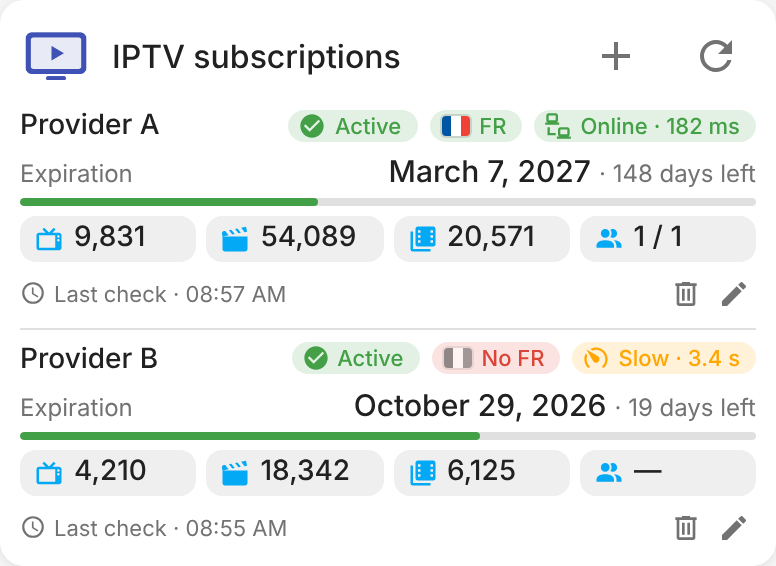
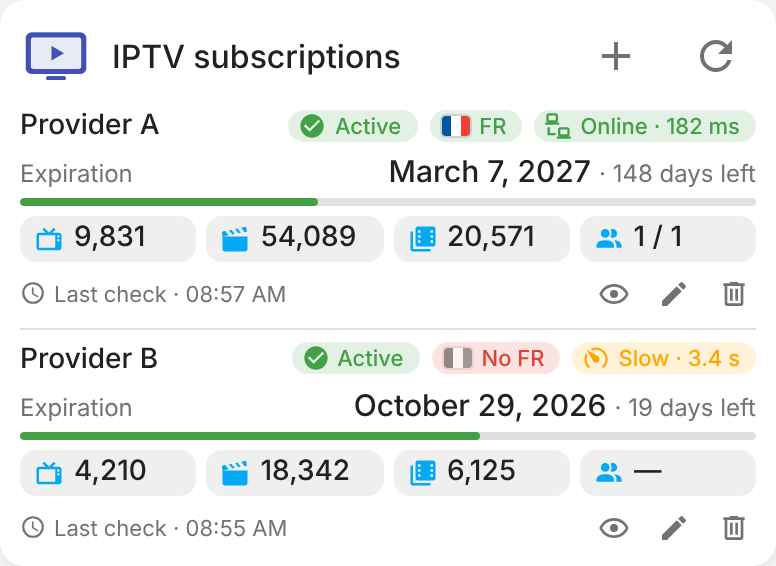
Catalogue-count check and a view-credentials popup (3.13.0) (#23)
Adding or editing an account now also verifies the channel/movie/series
counts look like a real catalogue (empty_catalogue otherwise). New 👁 button
per subscription opens a popup showing the server URL and credentials with a
copy button each, backed by iptv.get_credentials. The view/edit/delete
buttons are spaced further apart.

Claude-Session: https://claude.ai/code/session_01Nef7oocvL8tyqa2wDZRCex

diff --git a/custom_components/iptv/frontend/iptv-card.js b/custom_components/iptv/frontend/iptv-card.js
@@ -8,7 +8,7 @@
  *
  * https://github.com/juju35/ha-iptv
  */
-var IPTV_CARD_VERSION = '3.12.0';
+var IPTV_CARD_VERSION = '3.13.0';
 var IPTV_DOMAIN = 'iptv';
 var IPTV_LOGO_URL = '/' + IPTV_DOMAIN + '/logo.png?v=' + IPTV_CARD_VERSION;
 
@@ -51,6 +51,10 @@ var IptvCardI18n = {
     add_stalker: 'Stalker / Ministra',
     add_create: 'Add',
     err_existing_longer: 'An account valid longer is already on this server',
+    err_empty_catalogue: 'The provider has no usable catalogue',
+    view_btn: 'View credentials',
+    view_title: 'Credentials',
+    copy: 'Copy',
     status_active: 'Active',
     status_expired: 'Expired',
     status_banned: 'Banned',
@@ -118,6 +122,10 @@ var IptvCardI18n = {
     add_stalker: 'Stalker / Ministra',
     add_create: 'Ajouter',
     err_existing_longer: 'Un compte valide plus longtemps existe déjà sur ce serveur',
+    err_empty_catalogue: 'Le fournisseur n\'a pas de catalogue exploitable',
+    view_btn: 'Voir les identifiants',
+    view_title: 'Identifiants',
+    copy: 'Copier',
     status_active: 'Actif',
     status_expired: 'Expiré',
     status_banned: 'Banni',
@@ -451,8 +459,9 @@ class IptvCard extends HTMLElement {
             ? `<div class="checked" data-entity="last_check"><ha-icon icon="mdi:clock-outline"></ha-icon>${esc(this._t('last_check'))} · ${esc(fmtCheck(h.at))}</div>`
             : '<span></span>'}
           <div class="foot-actions">
-            <button class="del" data-sub="${i}" title="${esc(this._t('del_btn'))}"><ha-icon icon="mdi:trash-can-outline"></ha-icon></button>
+            <button class="view" data-sub="${i}" title="${esc(this._t('view_btn'))}"><ha-icon icon="mdi:eye-outline"></ha-icon></button>
             <button class="edit" data-sub="${i}" title="${esc(this._t('edit_btn'))}"><ha-icon icon="mdi:pencil"></ha-icon></button>
+            <button class="del" data-sub="${i}" title="${esc(this._t('del_btn'))}"><ha-icon icon="mdi:trash-can-outline"></ha-icon></button>
           </div>
         </div>`;
 
@@ -533,8 +542,8 @@ class IptvCard extends HTMLElement {
         [data-entity] { cursor:pointer; }
         .stat:hover { filter: brightness(0.95); }
         .foot { display:flex; align-items:center; justify-content:space-between; gap:8px; min-height:20px; }
-        .foot-actions { display:flex; align-items:center; gap:2px; }
-        button.edit, button.del { padding:3px; margin:0; align-self:center; --mdc-icon-size:16px; }
+        .foot-actions { display:flex; align-items:center; gap:8px; }
+        button.edit, button.del, button.view { padding:3px; margin:0; align-self:center; --mdc-icon-size:16px; }
         button.del:hover { color:var(--iptv-crit); background:color-mix(in srgb, var(--iptv-crit) 12%, transparent); }
         .backdrop { position:absolute; inset:0; background:rgba(0,0,0,.45); display:flex; align-items:center; justify-content:center; z-index:9; border-radius:inherit; }
         .modal { background:var(--card-background-color, #1c1c1c); color:var(--primary-text-color); width:min(92%, 340px); border-radius:14px; padding:16px; box-shadow:0 8px 30px rgba(0,0,0,.4); display:flex; flex-direction:column; gap:10px; }
@@ -550,6 +559,11 @@ class IptvCard extends HTMLElement {
         .modal button.primary { background:var(--primary-color, #03a9f4); color:#fff; }
         .modal button.primary[disabled], .modal button.danger[disabled] { opacity:.6; cursor:default; }
         .modal button.danger { background:var(--iptv-crit); color:#fff; }
+        .view-row { display:flex; align-items:center; gap:8px; }
+        .view-k { font-size:11px; color:var(--secondary-text-color); width:96px; flex:none; }
+        .view-v { flex:1; min-width:0; font-size:13px; font-family:monospace; overflow:hidden; text-overflow:ellipsis; white-space:nowrap; user-select:all; }
+        .modal button.copy { padding:4px; --mdc-icon-size:16px; width:auto; height:auto; background:none; color:var(--secondary-text-color); }
+        .modal button.copy.ok { color:var(--iptv-ok); }
       </style>
       <ha-card>
         <div class="header">
@@ -569,6 +583,10 @@ class IptvCard extends HTMLElement {
     this._root.querySelectorAll('button.del').forEach((el) => {
       var sub = subs[Number(el.dataset.sub)];
       if (sub) el.addEventListener('click', () => this._confirmDelete(sub));
+    });
+    this._root.querySelectorAll('button.view').forEach((el) => {
+      var sub = subs[Number(el.dataset.sub)];
+      if (sub) el.addEventListener('click', () => this._openView(sub));
     });
     // Header pills (single subscription) belong to the first subscription
     this._root.querySelectorAll('[data-entity]').forEach((el) => {
@@ -761,6 +779,62 @@ class IptvCard extends HTMLElement {
     btn.removeAttribute('disabled');
     btn.textContent = this._t('add_create');
     errEl.textContent = this._t('err_' + (out.error || 'generic'));
+  }
+
+  // ── View credentials popup ────────────────────────────────────────────────
+  async _openView(sub) {
+    this._closeEditor();
+    var esc = (x) =>
+      String(x == null ? '' : x).replace(/[&<>"]/g, (c) => ({ '&': '&amp;', '<': '&lt;', '>': '&gt;', '"': '&quot;' })[c]);
+    var modal = document.createElement('div');
+    modal.className = 'backdrop';
+    modal.innerHTML = `<div class="modal"><h3>${esc(this._t('view_title'))}</h3><div class="hint">${esc(this._t('edit_saving'))}</div></div>`;
+    modal.addEventListener('click', (e) => { if (e.target === modal) this._closeEditor(); });
+    this.shadowRoot.appendChild(modal);
+    this._modal = modal;
+    var creds = {};
+    try {
+      var res = await this._hass.callService('iptv', 'get_credentials', { device_id: sub.device }, undefined, false, true);
+      creds = (res && res.response) || {};
+    } catch (e) { creds = {}; }
+    if (this._modal !== modal) return;
+    var close = `<div class="modal-actions"><button class="act cancel">${esc(this._t('edit_cancel'))}</button></div>`;
+    if (!creds.ok) {
+      modal.querySelector('.modal').innerHTML = `<h3>${esc(this._t('view_title'))}</h3><div class="err">${esc(this._t('err_' + (creds.error || 'generic')))}</div>${close}`;
+    } else {
+      var rows = creds.provider === 'stalker'
+        ? [['edit_url', creds.url], ['edit_mac', creds.mac]]
+        : [['edit_url', creds.url], ['edit_username', creds.username], ['edit_password', creds.password]];
+      var rowsHtml = rows.map((r) => `
+        <div class="view-row">
+          <div class="view-k">${esc(this._t(r[0]))}</div>
+          <div class="view-v">${esc(r[1])}</div>
+          <button class="copy" data-v="${esc(r[1])}" title="${esc(this._t('copy'))}"><ha-icon icon="mdi:content-copy"></ha-icon></button>
+        </div>`).join('');
+      modal.querySelector('.modal').innerHTML = `<h3>${esc(this._t('view_title'))}</h3>${rowsHtml}${close}`;
+      modal.querySelectorAll('button.copy').forEach((el) => el.addEventListener('click', () => this._copy(el)));
+    }
+    modal.querySelector('.cancel').addEventListener('click', () => this._closeEditor());
+  }
+
+  async _copy(el) {
+    var text = el.dataset.v;
+    try {
+      await navigator.clipboard.writeText(text);
+    } catch (e) {
+      try {
+        var ta = document.createElement('textarea');
+        ta.value = text;
+        this.shadowRoot.appendChild(ta);
+        ta.select();
+        document.execCommand('copy');
+        ta.remove();
+      } catch (e2) { /* ignore */ }
+    }
+    var icon = el.querySelector('ha-icon');
+    icon.setAttribute('icon', 'mdi:check');
+    el.classList.add('ok');
+    setTimeout(() => { icon.setAttribute('icon', 'mdi:content-copy'); el.classList.remove('ok'); }, 1200);
   }
 
   async _submitEditor() {

diff --git a/custom_components/iptv/services.py b/custom_components/iptv/services.py
@@ -25,6 +25,7 @@ from .api import (
     IptvError,
     StalkerClient,
     XtreamClient,
+    counts_ok,
     normalize_mac,
     normalize_url,
     valid_mac,
@@ -41,6 +42,7 @@ from .const import (
 SERVICE_EDIT_ACCOUNT = "edit_account"
 SERVICE_REMOVE_ACCOUNT = "remove_account"
 SERVICE_ADD_ACCOUNT = "add_account"
+SERVICE_GET_CREDENTIALS = "get_credentials"
 
 EDIT_SCHEMA = vol.Schema(
     {
@@ -53,6 +55,7 @@ EDIT_SCHEMA = vol.Schema(
 )
 
 REMOVE_SCHEMA = vol.Schema({vol.Required("device_id"): cv.string})
+CREDENTIALS_SCHEMA = vol.Schema({vol.Required("device_id"): cv.string})
 
 ADD_SCHEMA = vol.Schema(
     {
@@ -100,6 +103,8 @@ async def _validate(hass: HomeAssistant, provider: str, data: dict[str, Any]) ->
     stream = await client.async_test_stream()
     if stream.get("ok") is False:
         return "stream_ko"
+    if not counts_ok(await client.async_get_counts()):
+        return "empty_catalogue"
     return None
 
 
@@ -158,6 +163,21 @@ async def _async_remove_account(call: ServiceCall) -> ServiceResponse:
     return {"ok": True}
 
 
+async def _async_get_credentials(call: ServiceCall) -> ServiceResponse:
+    """Return the full credentials of an account (password included) for viewing."""
+    entry = _entry_for_device(call.hass, call.data["device_id"])
+    if entry is None:
+        return {"ok": False, "error": "not_found"}
+    return {
+        "ok": True,
+        "provider": entry.data.get(CONF_PROVIDER, "xtream"),
+        CONF_URL: entry.data.get(CONF_URL, ""),
+        CONF_USERNAME: entry.data.get(CONF_USERNAME, ""),
+        CONF_PASSWORD: entry.data.get(CONF_PASSWORD, ""),
+        CONF_MAC: entry.data.get(CONF_MAC, ""),
+    }
+
+
 async def _async_add_account(call: ServiceCall) -> ServiceResponse:
     hass = call.hass
     result = await hass.config_entries.flow.async_init(
@@ -195,4 +215,11 @@ def async_register_services(hass: HomeAssistant) -> None:
         _async_add_account,
         schema=ADD_SCHEMA,
         supports_response=SupportsResponse.OPTIONAL,
+    )
+    hass.services.async_register(
+        DOMAIN,
+        SERVICE_GET_CREDENTIALS,
+        _async_get_credentials,
+        schema=CREDENTIALS_SCHEMA,
+        supports_response=SupportsResponse.ONLY,
     )

diff --git a/custom_components/iptv/api.py b/custom_components/iptv/api.py
@@ -134,6 +134,14 @@ async def _probe_stream(
         return {"ok": False, "latency_ms": None, "error": str(err) or type(err).__name__}
 
 
+def counts_ok(counts: dict[str, Any]) -> bool:
+    """True when the channel / movie / series counts look like a real catalogue."""
+    chans = counts.get("channels") or 0
+    movies = counts.get("movies") or 0
+    series = counts.get("series") or 0
+    return chans > 0 and (movies > 0 or series > 0)
+
+
 def server_key(url: str) -> str:
     """``host:port`` of a server URL, to spot two accounts on the same server."""
     parsed = urlparse(normalize_url(url))
@@ -194,6 +202,15 @@ class XtreamClient:
             self._categories("get_series_categories"),
         )
         return french_summary({"live": live, "vod": vod, "series": series})
+
+    async def async_get_counts(self) -> dict[str, Any]:
+        """Channel / movie / series counts, for validating a real catalogue."""
+        channels, movies, series = await asyncio.gather(
+            self._count("get_live_streams"),
+            self._count("get_vod_streams"),
+            self._count("get_series"),
+        )
+        return {"channels": channels, "movies": movies, "series": series}
 
     async def async_test_stream(self) -> dict[str, Any]:
         """Probe the first live channel. ok True/False, or None when untestable."""
@@ -450,6 +467,15 @@ class StalkerClient:
             self._categories("itv"), self._categories("vod"), self._categories("series")
         )
         return french_summary({"live": live, "vod": vod, "series": series})
+
+    async def async_get_counts(self) -> dict[str, Any]:
+        """Channel / movie / series counts, for validating a real catalogue."""
+        if not self._token:
+            await self._handshake()
+        channels, movies, series = await asyncio.gather(
+            self._count("itv"), self._count("vod"), self._count("series")
+        )
+        return {"channels": channels, "movies": movies, "series": series}
 
     async def async_test_stream(self) -> dict[str, Any]:
         """Probe the first live channel via create_link. ok True/False/None."""

diff --git a/scripts/screenshots.py b/scripts/screenshots.py
@@ -56,6 +56,7 @@ ICONS = {
     "lan-disconnect": "M4,1C2.89,1 2,1.89 2,3V7C2,8.11 2.89,9 4,9H1V11H13V9H10C11.11,9 12,8.11 12,7V3C12,1.89 11.11,1 10,1H4M4,3H10V7H4V3M14,13C12.89,13 12,13.89 12,15V19C12,20.11 12.89,21 14,21H11V23H23V21H20C21.11,21 22,20.11 22,19V15C22,13.89 21.11,13 20,13H14M3.88,13.46L2.46,14.88L4.59,17L2.46,19.12L3.88,20.54L6,18.41L8.12,20.54L9.54,19.12L7.41,17L9.54,14.88L8.12,13.46L6,15.59L3.88,13.46M14,15H20V19H14V15Z",
     "trash-can-outline": "M9,3V4H4V6H5V19A2,2 0 0,0 7,21H17A2,2 0 0,0 19,19V6H20V4H15V3H9M7,6H17V19H7V6M9,8V17H11V8H9M13,8V17H15V8H13Z",
     "plus": "M19,13H13V19H11V13H5V11H11V5H13V11H19V13Z",
+    "eye-outline": "M12,9A3,3 0 0,1 15,12A3,3 0 0,1 12,15A3,3 0 0,1 9,12A3,3 0 0,1 12,9M12,4.5C17,4.5 21.27,7.61 23,12C21.27,16.39 17,19.5 12,19.5C7,19.5 2.73,16.39 1,12C2.73,7.61 7,4.5 12,4.5M3.18,12C4.83,15.36 8.24,17.5 12,17.5C15.76,17.5 19.17,15.36 20.82,12C19.17,8.64 15.76,6.5 12,6.5C8.24,6.5 4.83,8.64 3.18,12Z",
     "pencil": "M20.71,7.04C21.1,6.65 21.1,6 20.71,5.63L18.37,3.29C18,2.9 17.35,2.9 16.96,3.29L15.12,5.12L18.87,8.87M3,17.25V21H6.75L17.81,9.93L14.06,6.18L3,17.25Z",
     "clock-outline": "M12,20A8,8 0 0,1 4,12A8,8 0 0,1 12,4A8,8 0 0,1 20,12A8,8 0 0,1 12,20M12,2A10,10 0 0,0 2,12A10,10 0 0,0 12,22A10,10 0 0,0 22,12A10,10 0 0,0 12,2M12.5,7H11V13L16.25,16.15L17,14.92L12.5,12.25V7Z",
     "account-multiple": "M16 17V19H2V17S2 13 9 13 16 17 16 17M12.5 7.5A3.5 3.5 0 1 0 9 11A3.5 3.5 0 0 0 12.5 7.5M15.94 13A5.32 5.32 0 0 1 18 17V19H22V17S22 13.37 15.94 13M15 4A3.39 3.39 0 0 0 13.07 4.59A5 5 0 0 1 13.07 10.41A3.39 3.39 0 0 0 15 11A3.5 3.5 0 0 0 15 4Z"

diff --git a/custom_components/iptv/config_flow.py b/custom_components/iptv/config_flow.py
@@ -36,6 +36,7 @@ from .api import (
     IptvError,
     StalkerClient,
     XtreamClient,
+    counts_ok,
     normalize_mac,
     normalize_url,
     server_key,
@@ -158,6 +159,8 @@ class IptvConfigFlow(ConfigFlow, domain=DOMAIN):
             stream = await client.async_test_stream()
             if stream.get("ok") is False:
                 return {"base": "stream_ko"}
+            if not counts_ok(await client.async_get_counts()):
+                return {"base": "empty_catalogue"}
         return {}
 
     def _create_or_replace(self, data: dict[str, Any]) -> ConfigFlowResult:

diff --git a/custom_components/iptv/const.py b/custom_components/iptv/const.py
@@ -1,7 +1,7 @@
 """Constants for the IPTV integration."""
 
 DOMAIN = "iptv"
-VERSION = "3.12.0"
+VERSION = "3.13.0"
 
 CONF_SCAN_INTERVAL = "scan_interval"
 DEFAULT_SCAN_INTERVAL = 60  # minutes

diff --git a/README.md b/README.md
@@ -103,7 +103,7 @@ Delete the account in **Settings → Devices & services → IPTV**, then remove 
 | Portal URL | Including the port, e.g. `http://your-portal:80` (the portal path like `/c/` or `/portal.php` is found automatically) |
 | MAC address | The MAC registered with the provider, format `AA:BB:CC:DD:EE:FF` |
 
-The credentials are checked before the account is added, the **video stream** of a test channel must play (it is opened briefly — this uses a connection slot), and so are the **French lists**: a provider whose live, VOD and series categories contain nothing French is refused. A category counts as French with a marker (`FR`, `FRA`, `FRANCE`, `FRENCH`, `FRANÇAIS`, `VF`, `VOSTFR`, 🇫🇷, as whole words) or when it is a category well known in French lists (TF1, M6, Canal+, Ciné+, Arte, BFM, RMC, OCS, Gulli, Ligue 1…, or French-only words such as Séries, Cinéma, Dessins animés, Documentaires, Jeunesse).
+The credentials are checked before the account is added, the **video stream** of a test channel must play (it is opened briefly — this uses a connection slot), the **channel / movie / series counts** must look like a real catalogue (not empty), and so are the **French lists**: a provider whose live, VOD and series categories contain nothing French is refused. A category counts as French with a marker (`FR`, `FRA`, `FRANCE`, `FRENCH`, `FRANÇAIS`, `VF`, `VOSTFR`, 🇫🇷, as whole words) or when it is a category well known in French lists (TF1, M6, Canal+, Ciné+, Arte, BFM, RMC, OCS, Gulli, Ligue 1…, or French-only words such as Séries, Cinéma, Dessins animés, Documentaires, Jeunesse).
 
 The credentials are stored in the config entry together with the server URL (username / password, or MAC address).
 
@@ -187,7 +187,7 @@ devices:
 | `warning_days` | ❌ | `7` | Turns orange when fewer days than this are left |
 | `language` | ❌ | Auto | Force language: `en` or `fr` (auto-detects from HA settings) |
 
-Each subscription shows a French flag pill (**FR** in green when French lists were found, **No FR** in red otherwise), a health pill next to its status, and the moment of its last health check: **Online** with the response time (green), **Slow** above 3 s (orange), **Unreachable** (red). The **+** button (card header) opens a popup to add a new account, the ✎ button on each subscription edits that account's server URL and username / password (or MAC address), and the 🗑 button removes it (with confirmation). Adding or editing runs the same checks as the UI (credentials, French lists and video stream). The edit form is also available from **Settings → Devices & services → IPTV → ⋮ → Reconfigure**. The ⟳ button queries every shown server and runs a health check right away.
+Each subscription shows a French flag pill (**FR** in green when French lists were found, **No FR** in red otherwise), a health pill next to its status, and the moment of its last health check: **Online** with the response time (green), **Slow** above 3 s (orange), **Unreachable** (red). The **+** button (card header) opens a popup to add a new account, the 👁 button on each subscription shows its server URL and credentials with a copy button for each, the ✎ button edits them, and the 🗑 button removes the account (with confirmation). Adding or editing runs the same checks as the UI (credentials, French lists and video stream). The edit form is also available from **Settings → Devices & services → IPTV → ⋮ → Reconfigure**. The ⟳ button queries every shown server and runs a health check right away.
 
 ## Screenshots
 

diff --git a/CHANGELOG.md b/CHANGELOG.md
@@ -1,5 +1,14 @@
 # Changelog
 
+## 3.13.0
+
+### What's new
+- Adding or editing an account also checks that the channel / movie / series counts look like a real catalogue; an empty provider is refused (`empty_catalogue`).
+- New 👁 button on each subscription: a popup shows the server URL and username / password (or MAC) with a copy-to-clipboard button for each value. Backed by the `iptv.get_credentials` service.
+
+### Changes
+- More space between the view / edit / delete buttons on each subscription.
+
 ## 3.12.0
 
 ### What's new
